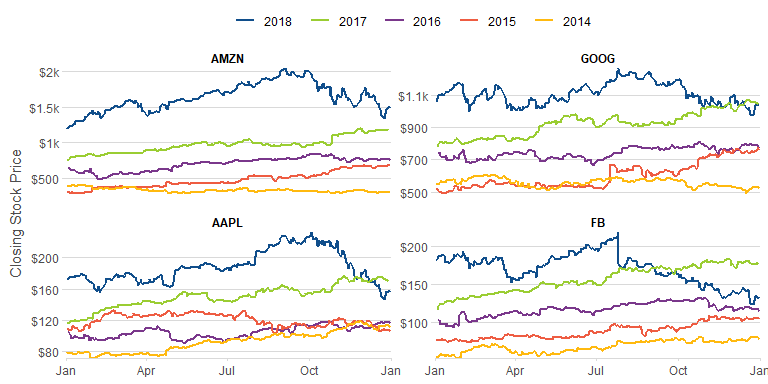
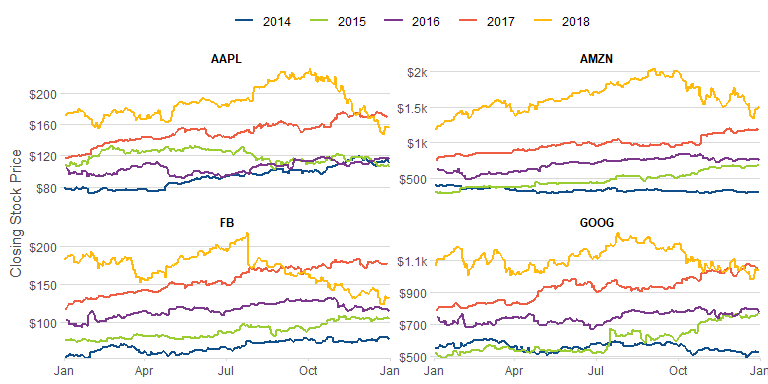
update to line_plot in readme

diff --git a/README.md b/README.md
@@ -96,6 +96,7 @@ Plot YOY comparisons:
 line_plot(gafa_stock, "Date", c("Closing Stock Price" = "Close"),
           facet_y = "Symbol",
           facet_scales = "free_y",
+          reorder = NULL,
           yoy = TRUE,
           labels = function(x) ez_labels(x, prepend = "$"))
 ```
